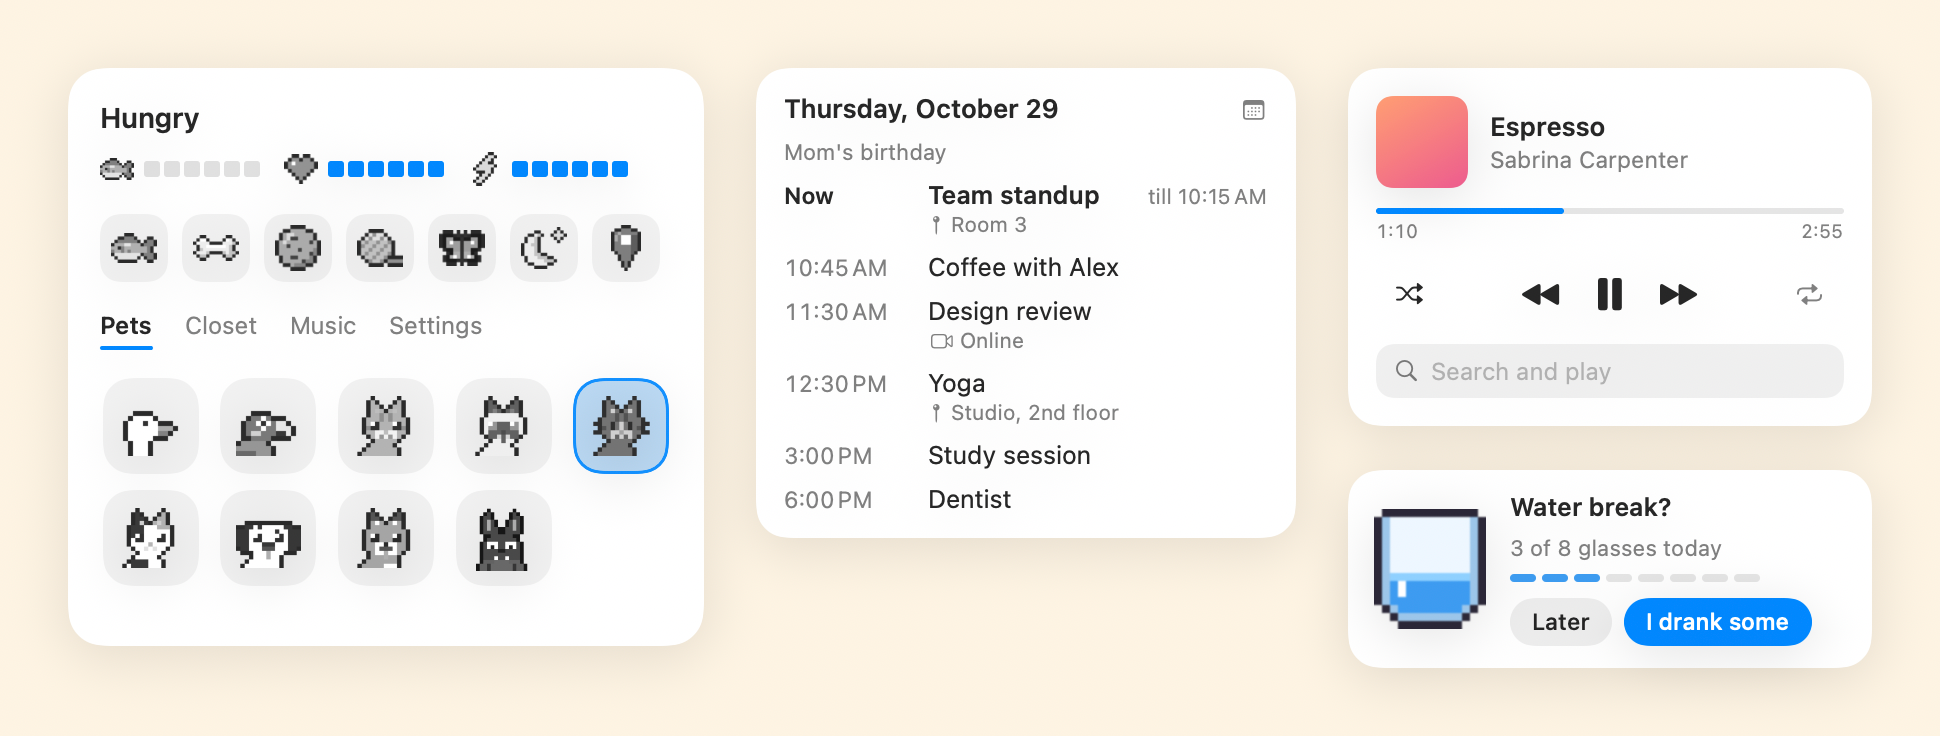
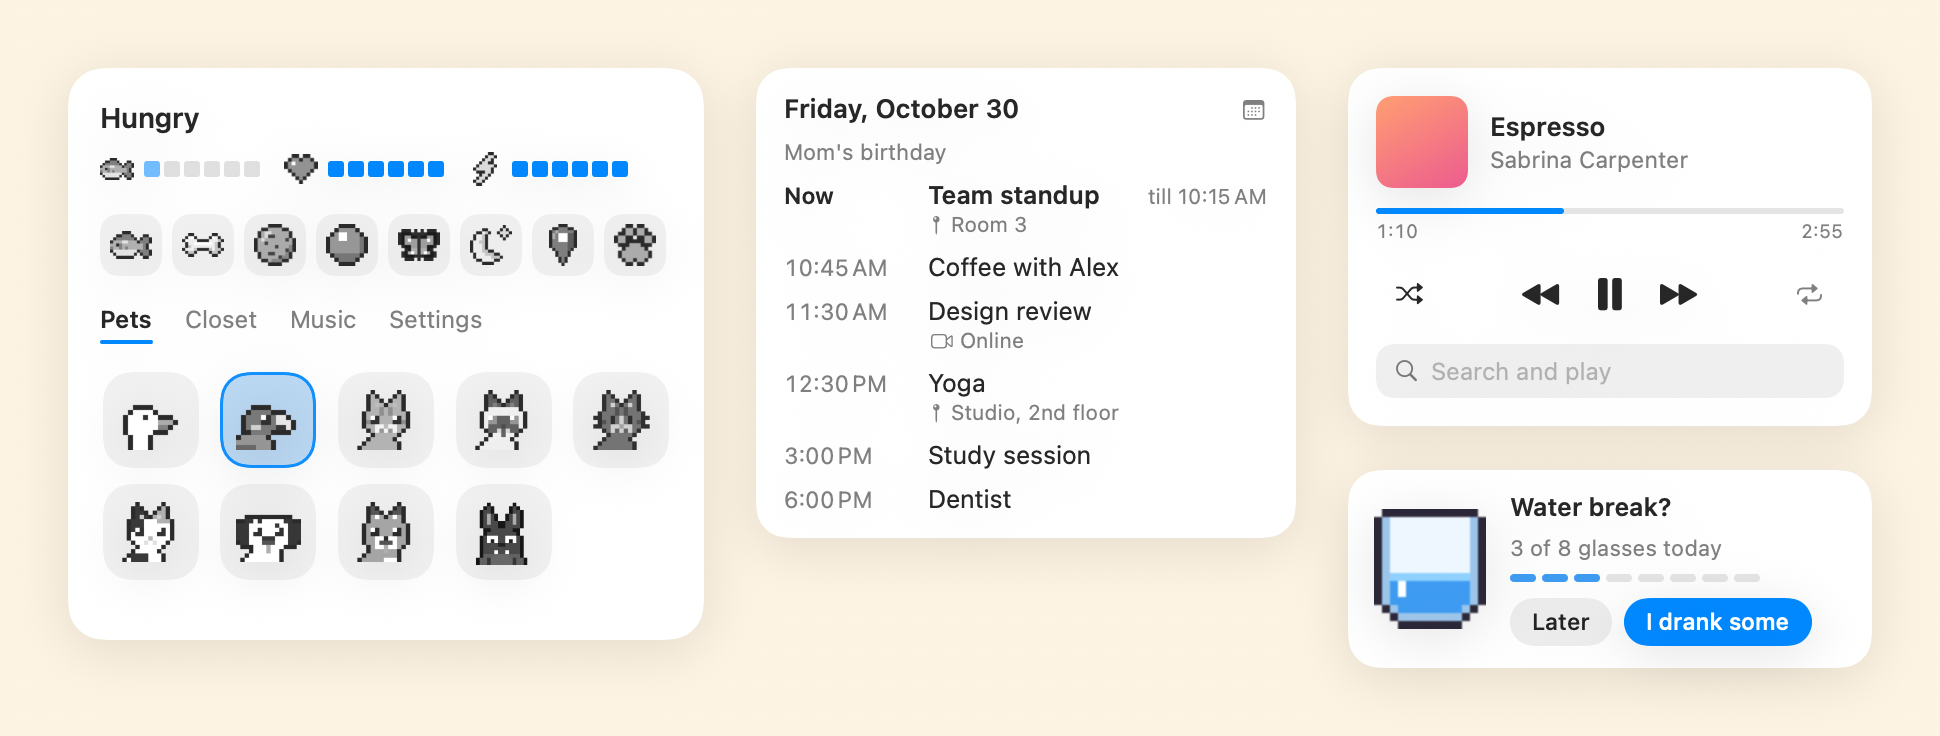
3.4: stay-in-place button, cuter typing parrot, music-only Music tab, leaner bell check

diff --git a/UI.swift b/UI.swift
@@ -154,10 +154,16 @@ struct RootView: View {
     var body: some View {
         if let world = m.world, let pet = world.pet {
             VStack(alignment: .leading, spacing: 14) {
-                header(world, pet)
-                actions(world, pet)
-                nowPlaying(world)
-                tabs
+                // the Music tab is all music: no needs, snacks or toys, so the queue gets the room
+                if m.tab != 2 {
+                    header(world, pet)
+                    actions(world, pet)
+                    nowPlaying(world)
+                    tabs
+                } else {
+                    tabs
+                    nowPlaying(world)
+                }
                 Group {
                     switch m.tab {
                     case 0: petsTab(world, pet)
@@ -218,13 +224,19 @@ struct RootView: View {
         // Petting, the calendar and gravity live on the pet itself (click, double-click) and in Settings.
         // These buttons close the menu so you see the pet act on them right away.
         let foods: [(ItemKind, String)] = [(.fish, "Fish"), (.bone, "Bone"), (.cookie, "Cookie")]
-        return GlassGroup { HStack(spacing: 7) {
-            ForEach(foods, id: \.1) { f in Tile(img: world.itemImage(f.0), help: "Feed: \(f.1)") { world.fromMenu { world.feed(f.0) } } }
-            Tile(img: world.itemImage(pet.family == .cat ? .yarn : .ball), help: "Throw a toy") { world.fromMenu { world.throwBall() } }
-            Tile(img: world.itemImage(.butterfly), help: "Let a butterfly out") { world.fromMenu { world.releaseButterfly() } }
-            Tile(img: world.iconImage(pet.isAsleep ? .sun : .moon), help: pet.isAsleep ? "Wake up" : "Nap") { world.fromMenu { pet.toggleNap() } }
+        // eight buttons, sized to fit the menu's width
+        return GlassGroup { HStack(spacing: 5) {
+            ForEach(foods, id: \.1) { f in Tile(img: world.itemImage(f.0), help: "Feed: \(f.1)", size: 31) { world.fromMenu { world.feed(f.0) } } }
+            Tile(img: world.itemImage(pet.family == .cat ? .yarn : .ball), help: "Throw a toy", size: 31) { world.fromMenu { world.throwBall() } }
+            Tile(img: world.itemImage(.butterfly), help: "Let a butterfly out", size: 31) { world.fromMenu { world.releaseButterfly() } }
+            Tile(img: world.iconImage(pet.isAsleep ? .sun : .moon), help: pet.isAsleep ? "Wake up" : "Nap", size: 31) { world.fromMenu { pet.toggleNap() } }
             Tile(img: world.iconImage(.pin), help: pet.following ? "Stop following" : "Come here: follows your cursor (press again to stop)",
-                 selected: pet.following ? true : nil) { world.fromMenu { pet.comeHere() } }
+                 selected: pet.following ? true : nil, size: 31) { world.fromMenu { pet.comeHere() } }
+            // stay in place, in three steps: roams, stays put (still grooms), completely still
+            Tile(img: world.iconImage([Icon.roam, .anchor, .still][world.stillness]),
+                 help: ["Roams around. Click: stay put", "Stays put but still grooms. Click: hold completely still",
+                        "Holds completely still. Click: roam again"][world.stillness],
+                 selected: world.stillness > 0 ? true : nil, size: 31) { world.cycleStillness(); m.refresh() }
         } }
     }
 
@@ -353,7 +365,7 @@ struct RootView: View {
             if sp.upNext.isEmpty {
                 hint(sp.running ? "Nothing queued" : "Play something in Spotify to see what's next")
             }
-            // a short box, so the menu stays small: scroll for the rest of the queue
+            // a box that scrolls, so the menu keeps its size however long the queue is
             ScrollView {
                 VStack(spacing: 6) {
                     ForEach(Array(sp.upNext.enumerated()), id: \.offset) { i, s in
@@ -361,7 +373,7 @@ struct RootView: View {
                     }
                 }
             }
-            .frame(maxHeight: 112)
+            .frame(maxHeight: 210)
         }
         Button("Disconnect Spotify account") { sp.disconnect(); m.refresh() }
             .buttonStyle(.plain).font(.system(size: 10.5)).foregroundStyle(.secondary)

diff --git a/Pets.swift b/Pets.swift
@@ -787,11 +787,19 @@ private func drawParrot(_ c: inout Canvas, _ p: Pose, cx: Int) -> Anchors {
     for (i, w) in widths.enumerated() where top + i <= bb { c.hline(cx + w.0, cx + w.1, top + i, .body) }
     c.paint(.body, .belly) { x, y in x >= cx + 1 && y >= top + 3 && y <= bb - 1 }
 
-    if p.prop == .laptop { drawLaptop(&c, lx: cx + 7, g: g) }
+    if p.prop == .laptop { drawLaptop(&c, lx: cx + 6, g: g) }
     if p.prop == .popcorn { drawPopcorn(&c, bx: cx + 7, g: g) }
     if p.prop == .calendar { drawCalendar(&c, x: cx + 6, y: top + 1) }
     if p.prop == .glass { drawGlass(&c, x: cx + 6, y: top + 2) }
-    parrotWing(&c, p.arm, cx: cx, top: top)
+    if p.prop == .laptop && (p.arm == .tap || p.arm == .forward) {
+        // typing: the near wing reaches down to the keys and taps them
+        parrotWing(&c, .rest, cx: cx, top: top)
+        let tip = (cx + 6, g - (p.arm == .tap ? 2 : 3))
+        c.thick(cx, top + 3, tip.0 - 1, tip.1, 2, .wing)
+        c.hline(tip.0 - 1, tip.0 + 1, tip.1 + 1, .wingDark)
+    } else {
+        parrotWing(&c, p.arm, cx: cx, top: top)
+    }
 
     // head, on a short neck; pecking and eating bring it down to the ground in front
     var hx = cx - 1 + max(-3, min(4, p.headDX)), ht = top - 5 + max(-3, min(10, p.headDY))
@@ -799,8 +807,12 @@ private func drawParrot(_ c: inout Canvas, _ p: Pose, cx: Int) -> Anchors {
     c.thick(cx - 1, top + 1, hx + 1, ht + 3, 3, .body)
     c.spans(hx, ht, [(1, 4), (0, 5), (0, 5), (0, 5), (1, 4)], .mark)
     c.hline(hx + 1, hx + 2, ht + 3, .accent)                         // yellow cheek
-    for (dx, dy) in [(2, 1), (4, 1), (3, 0), (3, 2)] { c.set(hx + dx, ht + dy, .ring) }
-    profileEye(&c, p.eyes, hx + 3, ht + 1)
+    // a round, shiny eye like the other pets' (a lone dot in a white ring looked like it was staring)
+    switch p.eyes {
+    case .open, .wide, .up: c.rect(hx + 3, ht + 1, 2, 2, .eye); c.set(hx + 3, ht + 1, .eyeHi)
+    case .half: c.hline(hx + 3, hx + 4, ht + 2, .eye)
+    default: profileEye(&c, p.eyes, hx + 3, ht + 1)
+    }
     // hooked beak
     c.hline(hx + 6, hx + 7, ht + 1, .beak)
     c.hline(hx + 6, hx + 8, ht + 2, .beak)
@@ -809,7 +821,7 @@ private func drawParrot(_ c: inout Canvas, _ p: Pose, cx: Int) -> Anchors {
     } else {
         c.set(hx + 8, ht + 3, .beak); c.set(hx + 6, ht + 3, .mouth); c.hline(hx + 6, hx + 7, ht + 4, .beakDark)
     }
-    if p.blush { c.set(hx + 2, ht + 3, .blush) }
+    if p.blush { c.hline(hx + 2, hx + 3, ht + 3, .blush) }
     return Anchors(headX: hx + 2, headTop: ht, headW: 6, eyes: [(hx + 3, ht + 1)], profile: true, neck: (hx + 2, ht + 5))
 }
 

diff --git a/Notifications.swift b/Notifications.swift
@@ -226,7 +226,9 @@ final class BannerWatcher {
         var obs: AXObserver?
         let callback: AXObserverCallback = { _, _, _, refcon in
             guard let refcon else { return }
-            Unmanaged<BannerWatcher>.fromOpaque(refcon).takeUnretainedValue().changed()
+            let me = Unmanaged<BannerWatcher>.fromOpaque(refcon).takeUnretainedValue()
+            me.axWorks = true
+            me.changed()
         }
         guard AXObserverCreate(pid, callback, &obs) == .success, let obs else { return }
         let app = AXUIElementCreateApplication(pid)
@@ -237,10 +239,12 @@ final class BannerWatcher {
         CFRunLoopAddSource(CFRunLoopGetMain(), AXObserverGetRunLoopSource(obs), .defaultMode)
         observer = obs
         for b in banners() { seen[b.text] = Date() }       // whatever is already showing doesn't ring
-        // Some macOS versions reuse one window for every banner and send no Accessibility events, so the window
-        // server is asked too: a cheap list of Notification Center's on-screen windows, scanned only when it changes.
-        poll = Timer.scheduledTimer(withTimeInterval: 1.5, repeats: true) { [weak self] _ in self?.checkWindows() }
-        poll?.tolerance = 0.5
+        // Some macOS versions reuse one window for every banner and send no Accessibility events, so until an event
+        // shows up the window server is asked too (Notification Center's on-screen windows, scanned only when they
+        // change). Once Accessibility events arrive, that check stops: nothing runs between notifications.
+        axWorks = false
+        poll = Timer.scheduledTimer(withTimeInterval: 3, repeats: true) { [weak self] _ in self?.checkWindows() }
+        poll?.tolerance = 1
     }
 
     func stop() {
@@ -251,8 +255,10 @@ final class BannerWatcher {
 
     private var poll: Timer?
     private var lastWindows = ""
+    fileprivate var axWorks = false
 
     private func checkWindows() {
+        if axWorks { poll?.invalidate(); poll = nil; return }
         let list = CGWindowListCopyWindowInfo([.optionOnScreenOnly, .excludeDesktopElements], kCGNullWindowID) as? [[String: Any]] ?? []
         let mine = list.filter { ($0[kCGWindowOwnerPID as String] as? pid_t) == pid && ($0[kCGWindowAlpha as String] as? Double ?? 1) > 0 }
         let shape = mine.map { w -> String in

diff --git a/Sheet.swift b/Sheet.swift
@@ -34,7 +34,8 @@ func renderSheet(_ path: String, only: String? = nil) {
         add(sanitize(sp.title), sp) { _ in }
         add("WALK", sp) { $0.stance = .walk; $0.phase = 1.2 }
         add("SIT", sp) { $0.stance = .sit; $0.tailUp = false }
-        add("TYPE", sp) { $0.stance = .sit; $0.prop = .laptop; $0.arm = .tap; $0.tailUp = false; if sp.isBird { $0.headDX = 2; $0.headDY = 7 } }
+        add("TYPE", sp) { $0.stance = .sit; $0.prop = .laptop; $0.arm = .tap; $0.tailUp = false; if sp == .goose { $0.headDX = 2; $0.headDY = 7 } else { $0.headDY = 1 } }
+        add("TYPE 2", sp) { $0.stance = .sit; $0.prop = .laptop; $0.arm = .forward; $0.tailUp = false; if sp == .goose { $0.headDX = 2; $0.headDY = 7 } }
         add("POPCORN", sp) { $0.stance = .sit; $0.prop = .popcorn; $0.arm = sp.isBird ? .forward : .scoop; $0.eyes = .up; $0.tailUp = false }
         add("MUSIC", sp) { $0.stance = sp.isBird ? .stand : .sit; $0.phones = true; $0.eyes = .happy; $0.tailUp = false }
         add("CALENDAR", sp) { $0.stance = .sit; $0.prop = .calendar; $0.arm = .hold; $0.tailUp = false }
@@ -266,7 +267,7 @@ func renderIcons(_ path: String) {
     let items: [ItemKind] = [.fish, .bone, .cookie, .yarn, .ball, .butterfly]
     var cans = items.map { itemCanvas($0, bites: 0, frame: 0) }
     var pals = items.map { $0 == .butterfly ? makePalette(butterflyPalettes[1]) : basePalette }
-    for ic in [Icon.moon, .sun, .pin] { cans.append(iconCanvas(ic)); pals.append(basePalette) }
+    for ic in [Icon.moon, .sun, .pin, .roam, .anchor, .still] { cans.append(iconCanvas(ic)); pals.append(basePalette) }
     let k = 10, cell = 16 * k
     let W = cell * cans.count, H = cell * 2
     let ctx = CGContext(data: nil, width: W, height: H, bitsPerComponent: 8, bytesPerRow: 0,

diff --git a/ItemArt.swift b/ItemArt.swift
@@ -178,7 +178,7 @@ func itemCanvas(_ kind: ItemKind, bites: Int, frame: Int, variant: Int = 0) -> C
 }
 
 /// Pixel icons for the menu's buttons, drawn like the snacks (outlined, shaded).
-enum Icon { case moon, sun, pin, heart, bolt, bell }
+enum Icon { case moon, sun, pin, heart, bolt, bell, roam, anchor, still }
 
 func iconCanvas(_ icon: Icon) -> Canvas {
     var c = Canvas(14, 14)
@@ -209,6 +209,15 @@ func iconCanvas(_ icon: Icon) -> Canvas {
     case .bell:
         c.sprite(2, 1, ["....BB....", "...BBBB...", "..BLBBBB..", "..BLBBBB..", "..BLBBBB..", ".BBLBBBBB.", ".BBBBBBBB.",
                         "BBBBBBBBBB", "DDDDDDDDDD", "....CC...."], ["B": .star, "L": .white, "D": .sunDark, "C": .handle])
+    case .roam:         // stay in place, off: a paw print, free to wander
+        c.sprite(1, 2, ["...XX.XX...", "...XX.XX...", ".XX.....XX.", ".XX.....XX.", "....XXX....", "...XXXXX...",
+                        "..XXXXXXX..", "..XXXXXXX..", "...XX.XX..."], ["X": .cookie])
+    case .anchor:       // stays put: an anchor
+        c.sprite(1, 1, ["....XXX....", "....X.X....", "....XXX....", "..XXXXXXX..", ".....X.....", ".....X.....",
+                        ".X...X...X.", ".XX..X..XX.", "..XXXXXXX..", "....XXX...."], ["X": .lapLight])
+    case .still:        // completely still: frozen, a snowflake
+        c.sprite(1, 1, [".....X.....", "...X.X.X...", "....XXX....", ".X..XXX..X.", "..X..X..X..", "XXXXXXXXXXX",
+                        "..X..X..X..", ".X..XXX..X.", "....XXX....", "...X.X.X...", ".....X....."], ["X": .zzz])
     case .heart:
         c.sprite(3, 4, [".HH.HH.", "HWHHHHH", "HHHHHHH", ".HHHHH.", "..HHH..", "...H..."], ["H": .heart, "W": .white])
     case .bolt:

diff --git a/World.swift b/World.swift
@@ -494,7 +494,7 @@ final class World: NSObject, NSPopoverDelegate {
 
     func tick() {
         let n = now()
-        let dt = min(n - lastTick, 0.2)
+        let dt = min(n - lastTick, 0.3)        // covers the slowest frame rate (4 a second while asleep), not long pauses
         lastTick = n
         t += dt
         sense()
@@ -1166,6 +1166,13 @@ final class World: NSObject, NSPopoverDelegate {
         volumes[category] = v
         synth.setVolumes(volumes)
         save()
+    }
+
+    /// The menu's stay-in-place button: roams, then stays put, then holds completely still, then roams again.
+    func cycleStillness() {
+        stillness = (stillness + 1) % 3
+        save()
+        pet.say([["FREE TO ROAM!"], ["I'LL STAY HERE"], ["FREEZE!"]][stillness], 1.8)
     }
 
     // MARK: Advanced settings window

diff --git a/Pet.swift b/Pet.swift
@@ -1636,6 +1636,7 @@ final class Pet {
             case .goose: p.headDX = 2; p.headDY = 7 + (tapping ? 1 : 0)
             default: p.headDY = tapping ? 1 : 0; if family == .dog { p.mouth = .closed }
             }
+            if species == .parrot { p.blush = true; p.eyes = tapping ? .happy : .open }        // a happy little typist
             if t < celebrateUntil {
                 p.arm = isBird ? (flapFast ? .raised : .rest) : .raised
                 p.eyes = .happy; p.mouth = .open; p.headDY = 0

diff --git a/README.md b/README.md
@@ -24,9 +24,11 @@ screen with you and reacts to what you do.
 - It **keeps you company**: types along when you type, grabs popcorn when a video plays and puts on headphones when
   music is on.
 - It **stays out of the way**: in fullscreen apps it climbs to the top edge and hangs out upside down; for fullscreen
-  videos it sits in the black bar instead. Share your screen in a call and it asks whether to hide.
-- It **looks after you**: it holds up a glass of water every so often (tap "I drank some" and it sips along and fills
-  your glass for the day), nudges you before every calendar event, and rings a little bell when a message arrives.
+  videos it sits in the black bar instead. Share your screen in a call and it asks whether to hide. Want it to stay in one
+  spot? One button makes it stay put (still grooming) or hold completely still.
+- It **looks after you**: it holds up a glass of water every so often and keeps a chart of your glasses, reminds you of
+  your own habits (stretching, vitamins, a walk...), nudges you before every calendar event, and rings a little bell
+  when a message arrives.
 
 ## The Pets
 
@@ -61,7 +63,9 @@ Dress any of them up from the **Closet**: hats (including a Santa hat), glasses 
 | Music controls and search | Click the pet while music plays |
 | Pet it | Stroke it with the cursor |
 | Throw it | Drag it and let go |
-| Follow your cursor for a minute | The map pin in the menu |
+| Follow your cursor | The map pin in the menu (press it again to stop) |
+| Stay in one spot | The paw button in the menu: roams, stays put, completely still |
+| Everything else | Menu › Settings › **Advanced Settings…** |
 
 ## Installing
 
@@ -78,7 +82,7 @@ Dress any of them up from the **Closet**: hats (including a Santa hat), glasses 
 
 ## Connections
 
-All optional, all in the menu's **Settings › Connections**.
+All optional, all in **Advanced Settings › Connections** (menu › Settings).
 
 | | Works with | Needs |
 |---|---|---|
